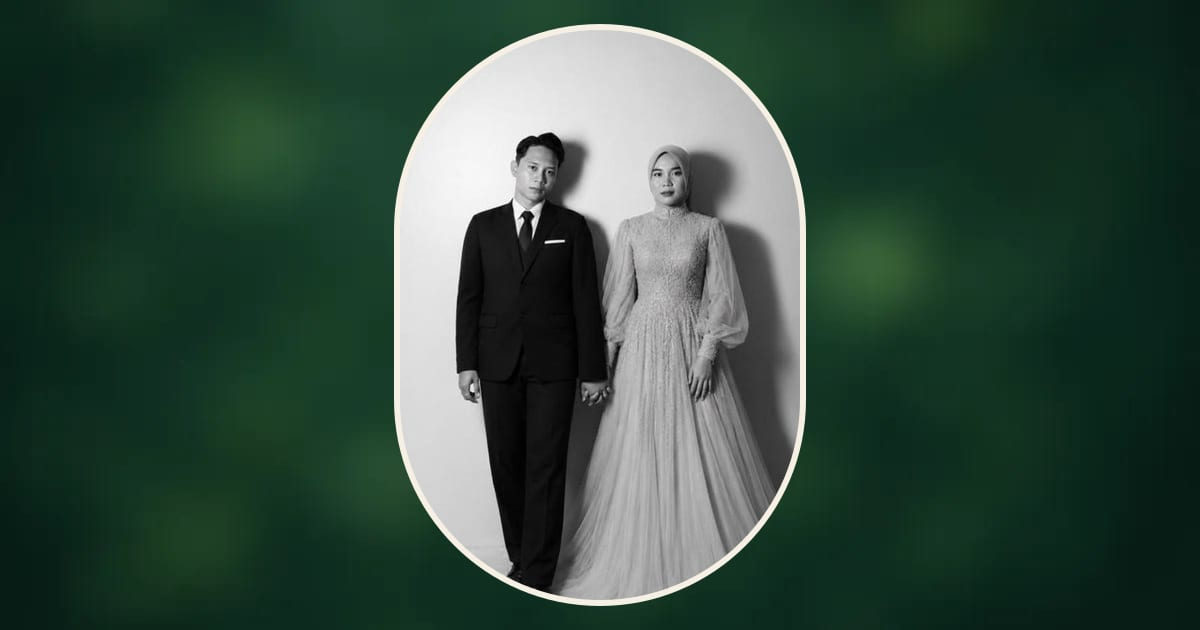
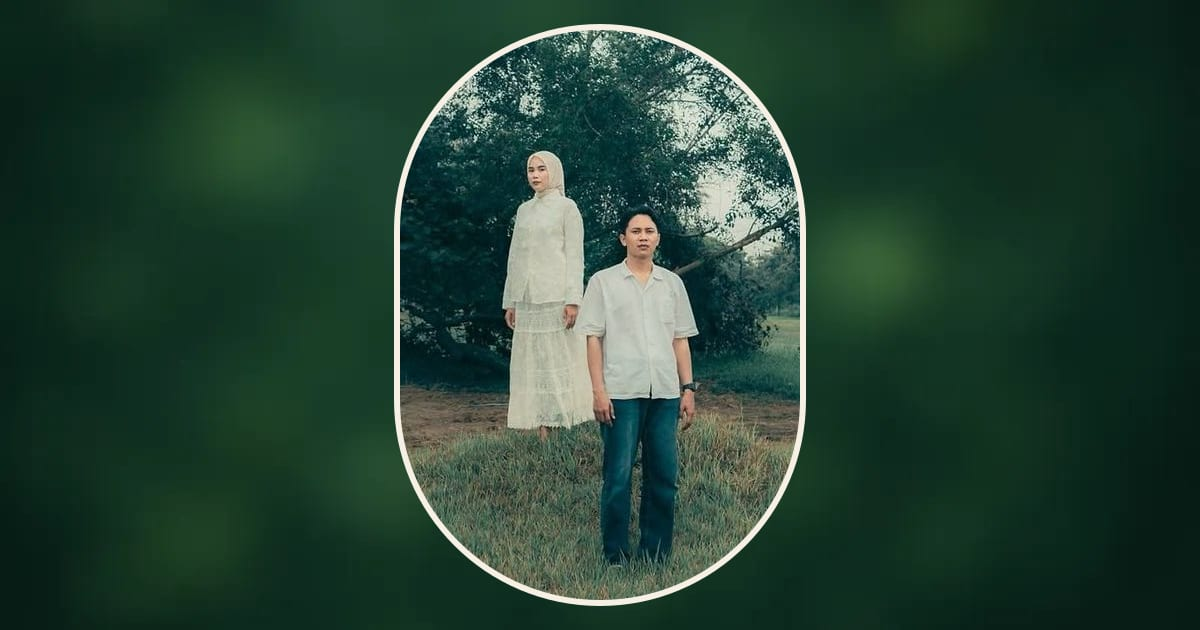
fix: use outdoor photo for cover (Rika left, Ibnu right), recentre and enhance couple portraits

Changed region(s): [[0.3083, 0.0302, 0.6783, 0.9651]]

diff --git a/tests/data.test.ts b/tests/data.test.ts
@@ -23,10 +23,10 @@ describe('Wedding Data Structure', () => {
 
   it('has theme photos and monogram', () => {
     expect(weddingData.monogram).toBe('R I');
-    expect(weddingData.coverPhoto).toBe('/images/gallery/01.jpg');
+    expect(weddingData.coverPhoto).toBe('/images/couple/cover.jpg');
     expect(weddingData.heroPhoto).toBe('/images/gallery/10.jpg');
     expect(weddingData.closingPhoto).toBe('/images/gallery/09.jpg');
-    expect(weddingData.events.akad.photo).toBe('/images/gallery/02.jpg');
+    expect(weddingData.events.akad.photo).toBe('/images/gallery/03.jpg');
     expect(weddingData.events.resepsi.photo).toBe('/images/gallery/04.jpg');
     expect(weddingData.bride.photo).toBe('/images/couple/bride.jpg');
     expect(weddingData.groom.photo).toBe('/images/couple/groom.jpg');

diff --git a/src/data/wedding-data.ts b/src/data/wedding-data.ts
@@ -21,7 +21,7 @@ export const weddingData: WeddingData = {
   dateShort: '03 . 12 . 2026',
   dateLong: '3 Desember 2026',
   monogram: 'R I',
-  coverPhoto: '/images/gallery/01.jpg',
+  coverPhoto: '/images/couple/cover.jpg',
   heroPhoto: '/images/gallery/10.jpg',
   closingPhoto: '/images/gallery/09.jpg',
   quote: {
@@ -39,7 +39,7 @@ export const weddingData: WeddingData = {
       mapsUrl: 'https://maps.google.com/?q=Islamic+Center+Pangandaran',
       calendarTitle: 'Akad Nikah Ibnu & Rika',
       calendarDescription: 'Akad Nikah Ibnu Rizal Aqila & Rika Nadiyanti di Gedung Islamic Center Pangandaran',
-      photo: '/images/gallery/02.jpg',
+      photo: '/images/gallery/03.jpg',
     },
     resepsi: {
       title: 'Resepsi Pernikahan',
